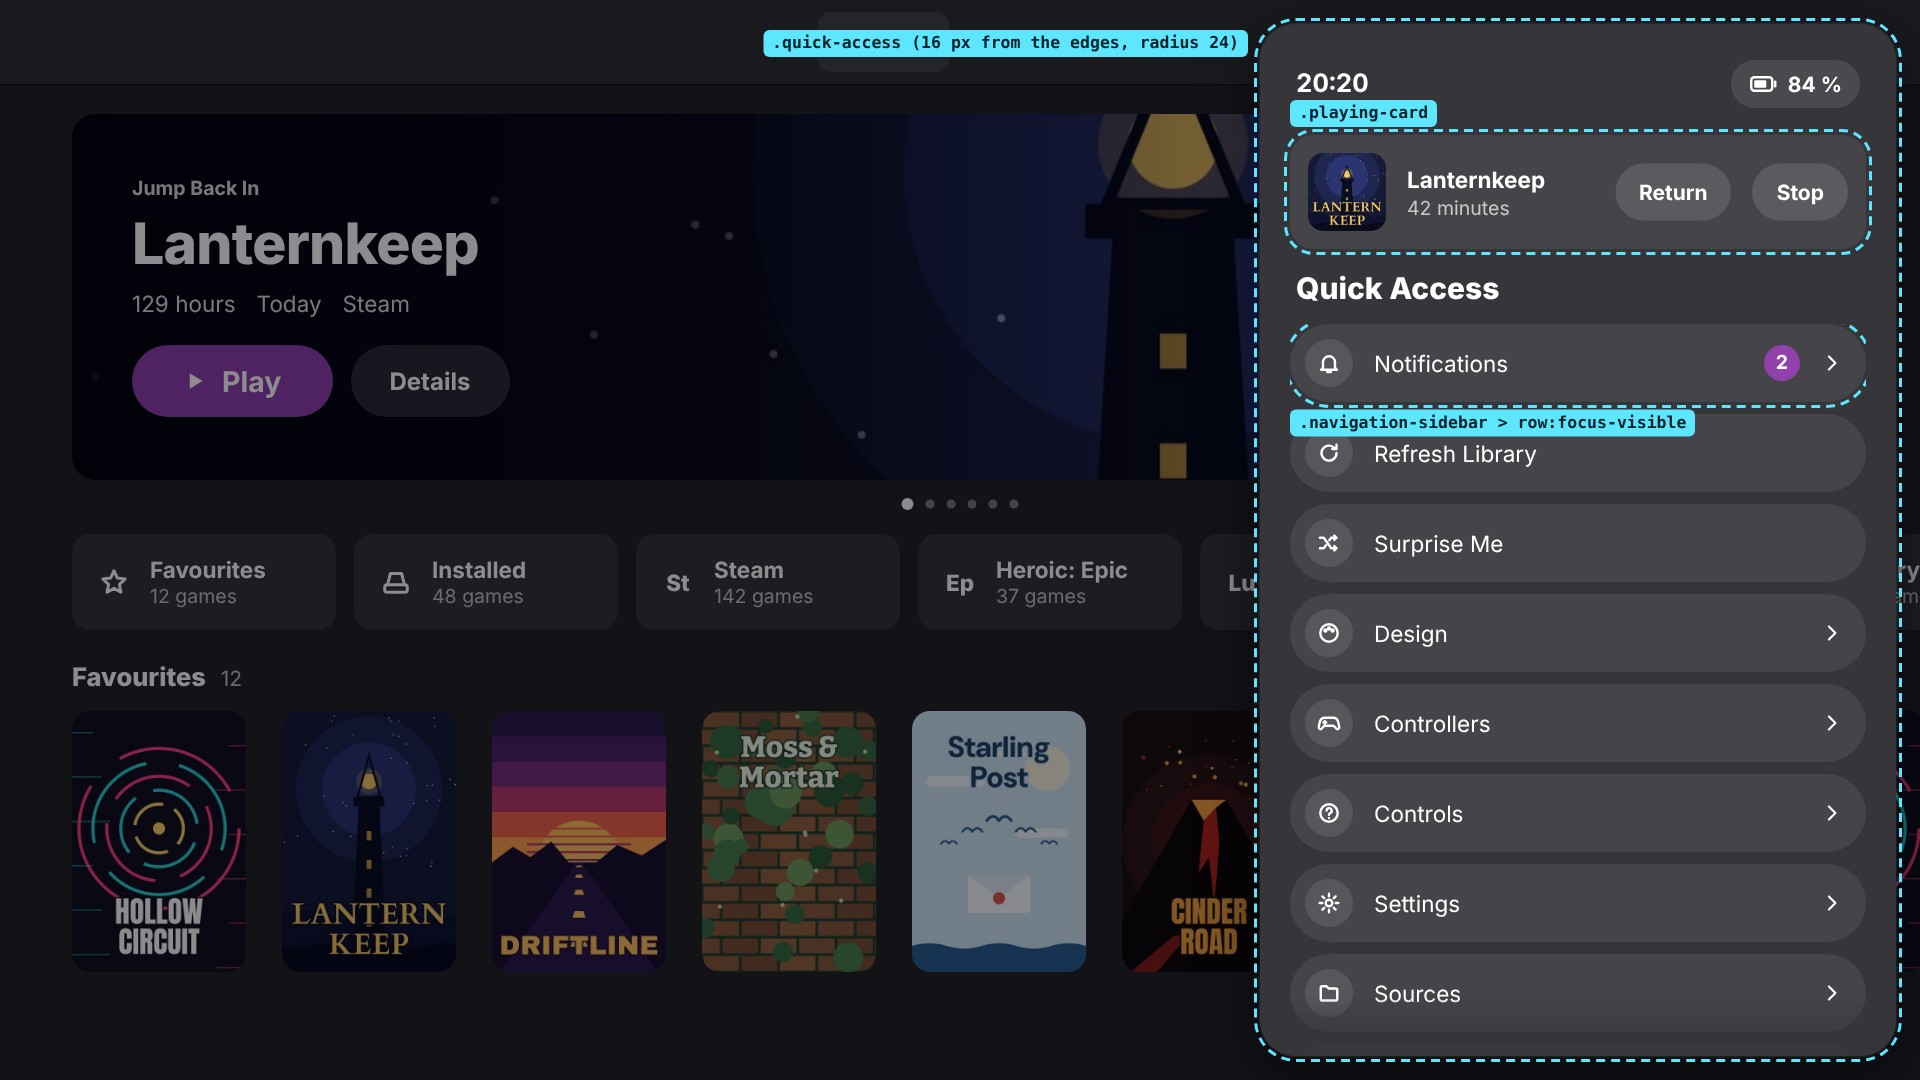
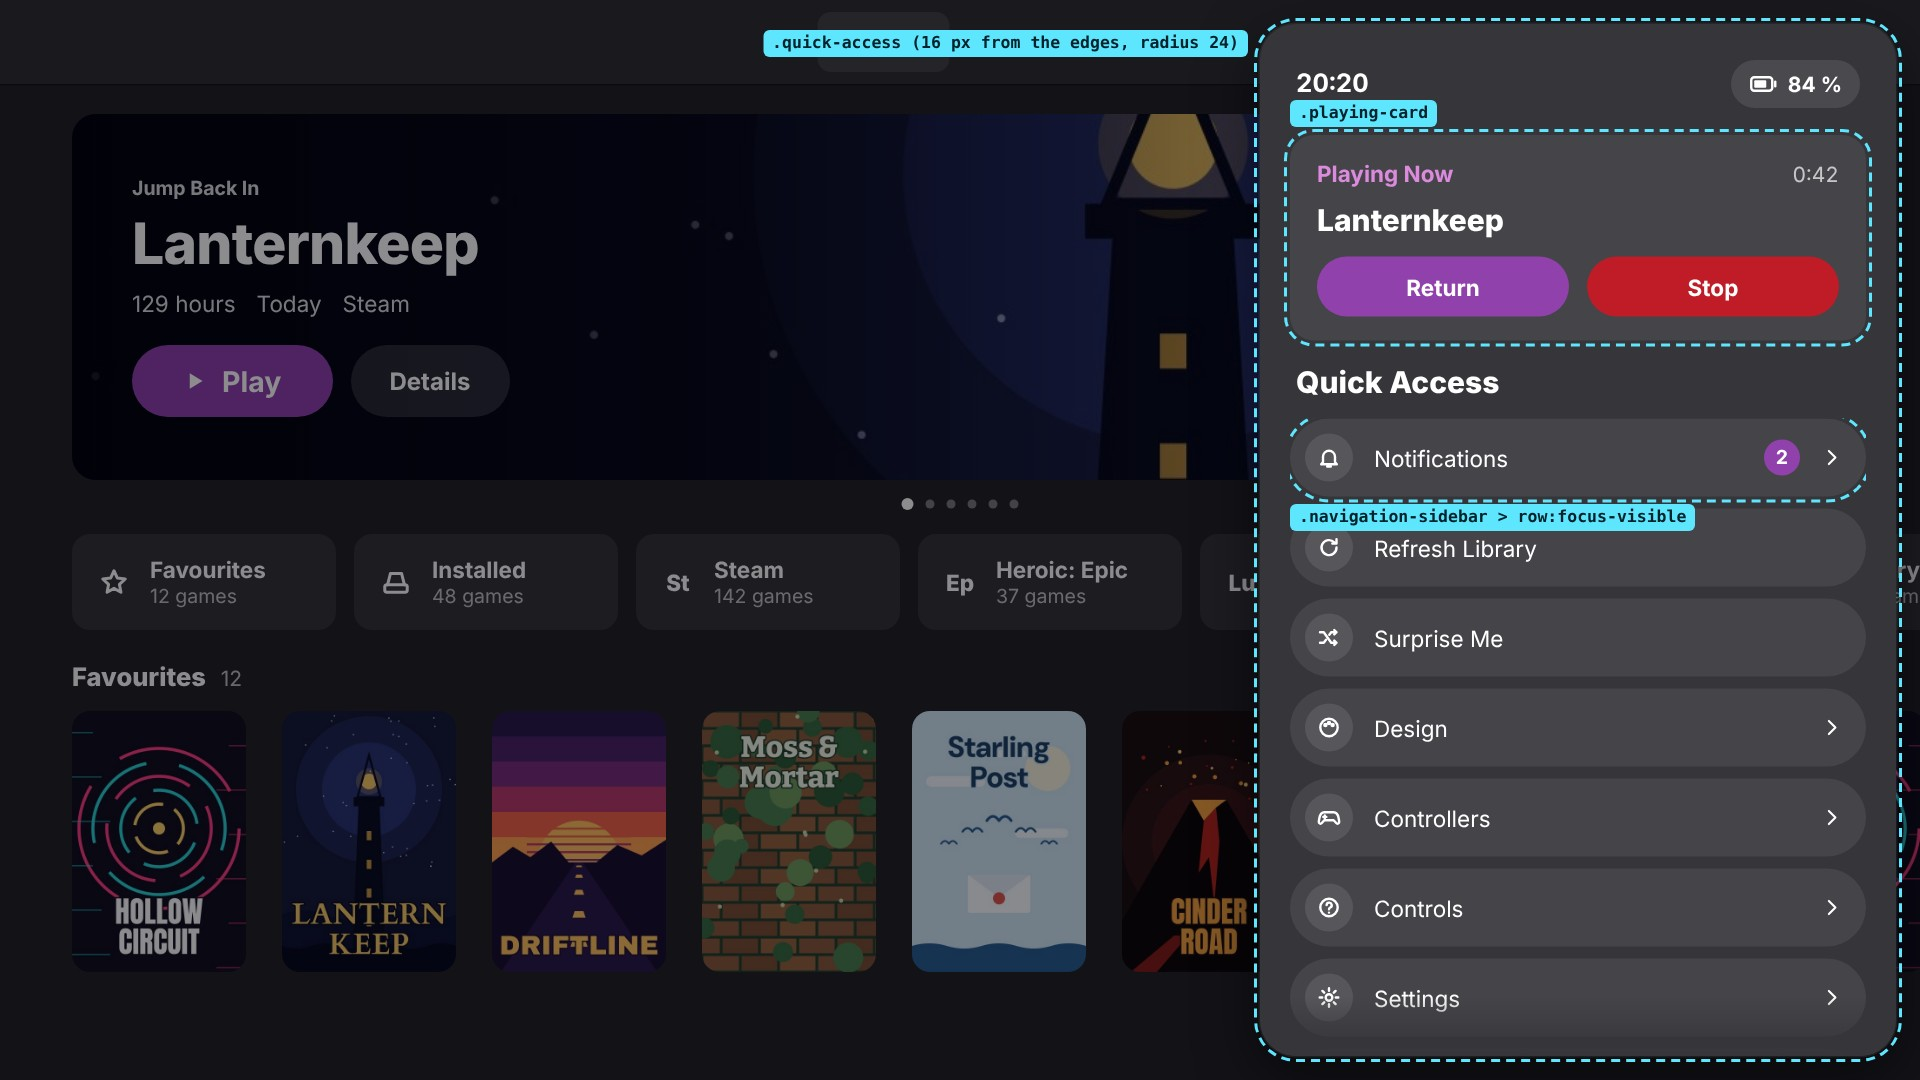
docs(design): draw the Playing Now card as the app builds it
Heading and time, title, then Return and Stop, as playing_card does.

Claude-Session: https://claude.ai/code/session_016GP9j6cMV9UiEzfhAKV7Ui

diff --git a/docs/design/fullscreen-adwaita/adwaita.css b/docs/design/fullscreen-adwaita/adwaita.css
@@ -75,12 +75,16 @@ body { width: 1280px; height: 720px; overflow: hidden; background: var(--window-
 .quick-access-status { display: flex; align-items: center; gap: 10px; padding: 0 4px 18px; font-weight: 700; }
 .quick-access-status .clock { position: static; flex: 1; font-size: 17px; }
 .quick-access-status .battery, .quick-access-status .offline { display: flex; align-items: center; gap: 6px; height: 32px; padding: 0 12px; border-radius: 999px; background: rgb(255 255 255 / 10%); font-size: 14px; }
-.playing-card { display: flex; align-items: center; gap: 14px; margin-bottom: 14px; padding: 12px; border-radius: 16px; background: rgb(255 255 255 / 8%); }
-.playing-card img { flex: none; width: 52px; height: 52px; border-radius: 10px; object-fit: cover; }
-.playing-card .text { flex: 1; min-width: 0; display: flex; flex-direction: column; gap: 2px; }
-.playing-card .name { font-weight: 700; }
-.playing-card .session-time { font-size: 13px; color: var(--dim); }
-.playing-card .pill { height: 38px; padding: 0 16px; font-size: 14px; background: rgb(255 255 255 / 12%); }
+/* The Playing Now card keeps today's parts: heading and time, title, Return and Stop. */
+.playing-card { display: flex; flex-direction: column; gap: 10px; margin-bottom: 16px; padding: 16px 18px; border-radius: 16px; background: rgb(255 255 255 / 8%); }
+.playing-card .top { display: flex; align-items: baseline; }
+.playing-card .heading { flex: 1; font-weight: 700; color: var(--accent-color); }
+.playing-card .session-time { font-size: 14px; color: var(--dim); font-variant-numeric: tabular-nums; }
+.playing-card .name { font-size: 20px; font-weight: 800; }
+.playing-card .buttons { display: flex; gap: 12px; padding-top: 2px; }
+.playing-card .pill { flex: 1; justify-content: center; height: 40px; padding: 0; font-size: 15px; }
+.playing-card .pill.suggested-action { background: var(--accent-bg-color); }
+.playing-card .pill.destructive-action { background: #c01c28; }
 .panel-title { padding: 0 4px 12px; font-size: 20px; font-weight: 800; }   /* existing .title-3 */
 .panel-heading { padding: 8px 4px 8px; font-size: 15px; font-weight: 700; } /* existing .heading */
 .navigation-sidebar { display: flex; flex-direction: column; gap: 8px; }

diff --git a/docs/design/fullscreen-adwaita/adwaita-quick-access.html b/docs/design/fullscreen-adwaita/adwaita-quick-access.html
@@ -29,9 +29,9 @@ document.getElementById('window').innerHTML = quiet(home(false)) + hints([['A', 
   <div class="quick-access abs leftout" data-a=".quick-access (16 px from the edges, radius 24)">
     ${status}
     <div class="playing-card" data-a=".playing-card">
-      <img src="art/lanternkeep-sq.jpg" alt="">
-      <span class="text"><span class="name">Lanternkeep</span><span class="session-time">42 minutes</span></span>
-      <span class="pill">Return</span><span class="pill">Stop</span>
+      <span class="top"><span class="heading">Playing Now</span><span class="session-time">0:42</span></span>
+      <span class="name">Lanternkeep</span>
+      <span class="buttons"><span class="pill suggested-action">Return</span><span class="pill destructive-action">Stop</span></span>
     </div>
     <div class="panel-title">Quick Access</div>
     <div class="navigation-sidebar">${rows.map(row).join('')}</div>
